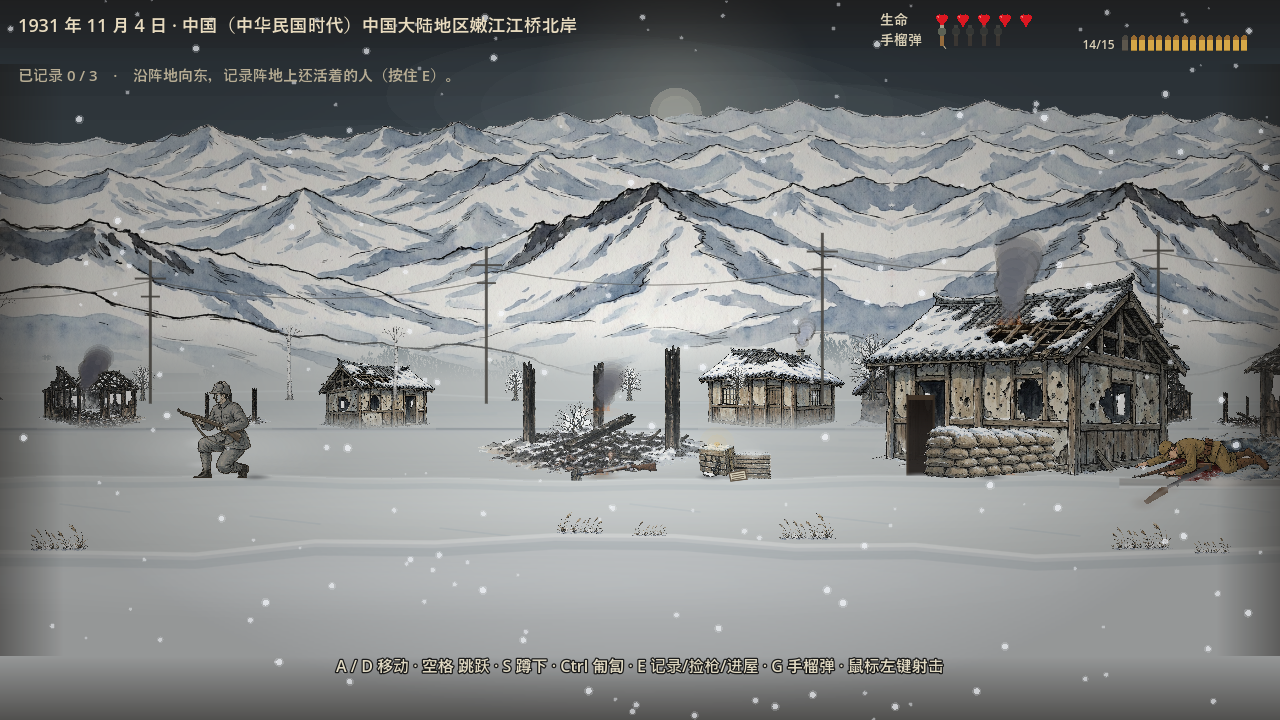
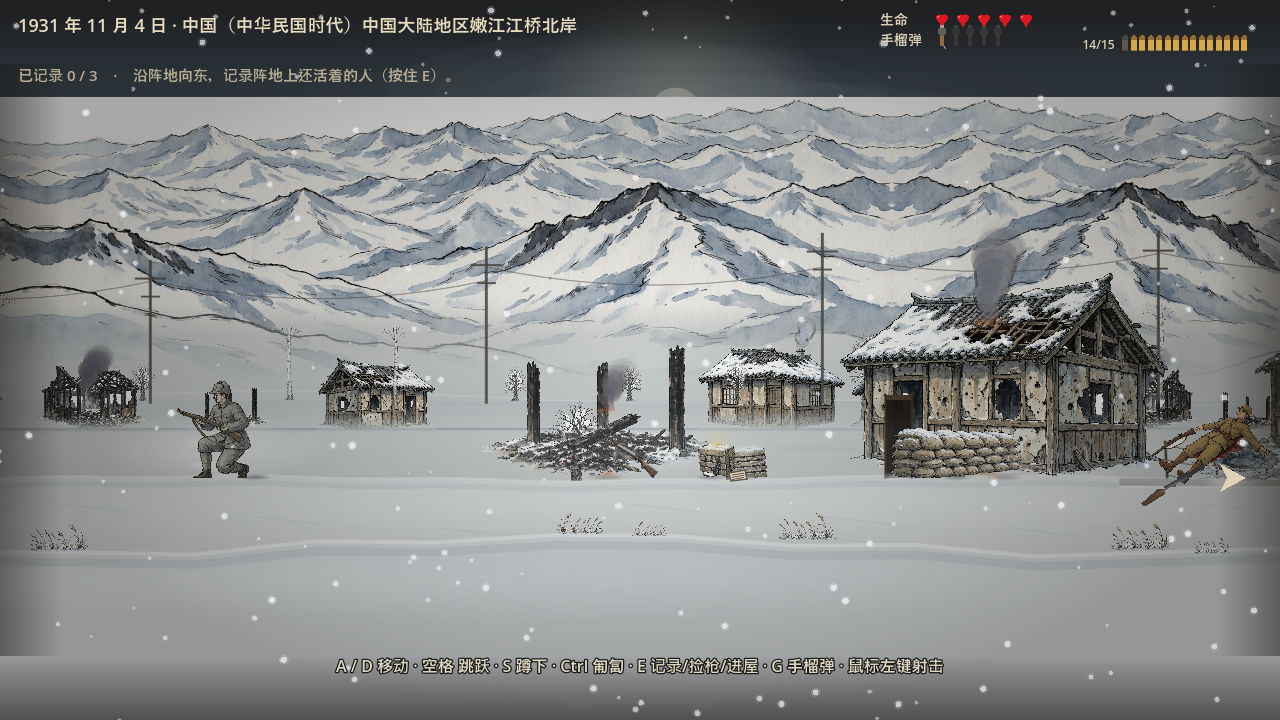
v3.8 spatial logic + horizon white-line root fix: pull near houses in front of rail (ZIndex -3->-1), move corpses out of house footprints (2090->2290 / 3000->3650), add DrawRailBlastDamage warped rail ends + craters, raise sleeper gap to ~30%, pixel-darken entire mountain foot + widen code fade band

diff --git a/scripts/JiangqiaoLevel.cs b/scripts/JiangqiaoLevel.cs
@@ -236,9 +236,11 @@ public partial class JiangqiaoLevel : Node2D
         AddHouse("f3", 3910f + Jit(35), "house_burned_near", 265f, false, 12f);
 
         // near row: enterable loot spots, the intact one teaches players
-        // "the house that still looks whole got the goods" lah
+        // "the house that still looks whole got the goods" lah.
+        // h3 sits fixed (no jitter) so the 2197-2380 gap stays open for the
+        // crater + fallen soldier vignette next to it.
         AddHouse("h1", 845f + Jit(24), "house_ruined_near", 330f, true, 0f);
-        AddHouse("h3", 1885f + Jit(30), "house_intact_near", 312f, true, 0f);
+        AddHouse("h3", 1885f, "house_intact_near", 312f, true, 0f);
         AddHouse("h4", 3180f + Jit(45), "house_posts", 320f, false, 0f);
         AddHouse("h2", 2760f, "house_burned_near", 360f, true, 0f);
     }
@@ -545,7 +547,8 @@ public partial class JiangqiaoLevel : Node2D
         AddChild(_game);
 
         // smoke and fire over the near houses: above the houses, below the fighters
-        _smokeWorld = new SmokeFx { ZIndex = -2 };
+        // v3.8: houses moved up to -1, smoke must ride above them again
+        _smokeWorld = new SmokeFx { ZIndex = 1 };
         _game.AddChild(_smokeWorld);
         if (DebugNoSmoke) _smokeWorld.Visible = false;
 
@@ -590,17 +593,22 @@ public partial class JiangqiaoLevel : Node2D
         _game.AddChild(new CorpseActor(CorpseActor.Faction.IJA,
             new Vector2(1270, GroundY - 2), false, 0.08f));
 
-        // 2. 另一个弹坑（日军，朝向相反）
+        // 2. 弹坑旁（日军，朝向相反）
+        // v3.8: was 2090 — right inside the intact house h3 (1885-2197), body
+        // clipped into the wall. Now draped over the crater rim at 2290, on
+        // open snow between the house and the track.
         _game.AddChild(new CorpseActor(CorpseActor.Faction.IJA,
-            new Vector2(2090, GroundY - 2), true, -0.12f));
+            new Vector2(2290, GroundY - 2), true, 0.06f));
 
         // 3. 战壕边（东北军，头倒在战壕方向）
         _game.AddChild(new CorpseActor(CorpseActor.Faction.NortheastArmy,
             new Vector2(1550, GroundY - 2), false, 0.22f));
 
         // 4. 碉堡前（日军，身体挡在碉堡入口前）
+        // v3.8: was 3000, inside burned house h2; bunker also moved out of
+        // that footprint to 3600, corpse follows and falls toward its door
         _game.AddChild(new CorpseActor(CorpseActor.Faction.IJA,
-            new Vector2(3000, GroundY - 2), true, -0.18f));
+            new Vector2(3650, GroundY - 2), false, -0.10f));
 
         // 5. 桥头铁路旁（东北军，头朝冰面倒）
         _game.AddChild(new CorpseActor(CorpseActor.Faction.NortheastArmy,
@@ -1677,8 +1685,12 @@ public partial class JiangqiaoLevel : Node2D
             // horizon. Now the haze uses the snow colour itself and stops
             // where the solid snow takes over, so no band can ever end up
             // brighter than the field it melts into.
-            var haze = VGradient(new Color(0.775f, 0.795f, 0.795f, 0f), new Color(0.775f, 0.795f, 0.795f, 0.55f));
-            DrawTextureRect(haze, Full(-1400, 505, 57), false);
+            // v3.8: the texture's snow-covered foot (rows ~440-530, mean 215-237)
+            // was STILL brighter than the plain (198) and popped as a thick
+            // white band in daylight. Texture is darkened in place now; this
+            // haze stays weak and long so it only softens, never bands.
+            var haze = VGradient(new Color(0.775f, 0.795f, 0.795f, 0f), new Color(0.775f, 0.795f, 0.795f, 0.42f));
+            DrawTextureRect(haze, Full(-1400, 482, 80), false);
         }
 
         private List<Vector2> Ridge(float baseY, float amp, Color color, float seed, float f1, float f2)
@@ -1785,6 +1797,8 @@ public partial class JiangqiaoLevel : Node2D
             // showed through the 74-86% fade as a thin bright line. Solid snow
             // now starts at 560 and the fade runs 500-560, so the strip is
             // buried under full-strength snow no matter the tint.
+            // v3.8: fade widened to 468-560 so the mountain foot blends over
+            // 90px instead of 60 — no leftover bright ledge above the plain.
             var fade = VGradient(new Color(snow, 0f), new Color(snow, 1f));
             DrawRect(Full(-1400, 560, 258), snow);
 
@@ -1817,7 +1831,7 @@ public partial class JiangqiaoLevel : Node2D
             // came out as a thin smear. Distance haze belongs behind the
             // village anyway — the fog is out on the plain, the houses stand
             // in front of it.
-            DrawTextureRect(fade, Full(-1400, 500, 60), false);
+            DrawTextureRect(fade, Full(-1400, 468, 92), false);
 
             // The distant village: war-torn farmhouses on the open snow.
             //
@@ -2352,11 +2366,14 @@ public partial class JiangqiaoLevel : Node2D
             // 弹坑位置 ±20、半径 ±6。
             // anchors picked so the rim never kisses a sandbag wall, bunker or
             // ammo crate - a shell hole right against the cover reads wrong.
-            // old 4060 slot was boxed in by the 4160 wall, bunker 4050 and
-            // crate 3960, dropped it instead of squeezing another one in.
+            // v3.8: dropped 2080/2890/3260 — all three sat inside near-house
+            // footprints (h3/h2/h4) and would vanish behind them now that the
+            // houses draw in front of the ground art. 2290 is the new hole in
+            // the open gap between h3 and the track; 2540/3780 stay to break
+            // the rails where they are visible.
             var craterListX = new List<float>();
             var craterListR = new List<float>();
-            foreach (float x in new[] { 1260f, 1640f, 2080f, 2540f, 2890f, 3260f, 3780f })
+            foreach (float x in new[] { 1260f, 1640f, 2290f, 2540f, 3780f })
             {
                 craterListX.Add(x + rng.RandfRange(-22f, 22f));
                 craterListR.Add(26f + rng.RandfRange(-6f, 15f));
@@ -2382,7 +2399,8 @@ public partial class JiangqiaoLevel : Node2D
             var bxList = new List<float>();
             var bwList = new List<float>();
             var fhList = new List<float>();
-            foreach (float bx in new[] { 1550f, 3050f, 4050f })
+            // v3.8: bunker 3050 was buried behind burned house h2, moved to 3600
+            foreach (float bx in new[] { 1550f, 3600f, 4050f })
             {
                 bxList.Add(bx + rng.RandfRange(-18f, 18f));
                 bwList.Add(56f + rng.RandfRange(-4f, 8f));
@@ -2392,10 +2410,10 @@ public partial class JiangqiaoLevel : Node2D
             _bunkerBW = bwList.ToArray();
             _bunkerFH = fhList.ToArray();
 
-            // 铁路：随机挑 8~12 根枕木去掉（每 60 根里去掉 1 根 = 稀疏破损）
+            // 铁路：随机挑约 30 根枕木去掉（画得到的就是 84 根，三成缺失 = 战时打烂的样子）
             var railSkip = new HashSet<int>();
-            int railCount = (int)(5200f / 34f);  // ≈ 152 根
-            for (int k = 0; k < 22; k++) railSkip.Add((int)rng.RandfRange(0, railCount));
+            int railCount = (int)((WorldW - 2400f) / 34f) + 2;
+            for (int k = 0; k < 30; k++) railSkip.Add((int)rng.RandfRange(0, railCount));
             _railSkipIdx = railSkip.ToArray();
 
             // 桥桁架：随机去掉 2~4 根斜腹杆
@@ -2439,6 +2457,7 @@ public partial class JiangqiaoLevel : Node2D
             DrawRiverIce();
             DrawRailway();
             DrawCraters();
+            DrawRailBlastDamage();
             DrawBridge();
             DrawTrenchLines();
         }
@@ -2509,6 +2528,61 @@ public partial class JiangqiaoLevel : Node2D
                 DrawTextureRect(SoftSnow.Blob(new Color(0.78f, 0.83f, 0.86f), 0.6f),
                     new Rect2(-20f, -20f, 40f, 40f), false);
                 DrawSetTransform(Vector2.Zero, 0, Vector2.One);
+            }
+        }
+
+        /// <summary>
+        /// v3.8 dressing at every rail break: scorch on the ballast, twisted
+        /// rail stubs curling out of both cut ends, splinters and debris.
+        /// Without this the segmented rails just showed a naked gap in the
+        /// line - "why would the track stop mid-air for no reason".
+        /// Deterministic per crater index, stable between frames.
+        /// Drawn after the crater textures so the twisted steel stays visible.
+        /// </summary>
+        private void DrawRailBlastDamage()
+        {
+            float railY = GroundY - 1f;
+            for (int i = 0; i < _craterX.Length; i++)
+            {
+                float cx = _craterX[i];
+                if (cx <= 2420f || cx >= WorldW - 24f) continue;
+                float r = _craterR[i] * 0.82f;
+
+                var rng = new RandomNumberGenerator();
+                rng.Seed = (ulong)(i * 7919 + 13);
+
+                // scorched bed under the gap
+                DrawSetTransform(new Vector2(cx, railY + 9f), 0, new Vector2(r / 20f, 0.42f));
+                DrawTextureRect(SoftSnow.Blob(new Color(0.19f, 0.175f, 0.16f), 0.5f),
+                    new Rect2(-20f, -20f, 40f, 40f), false);
+                DrawSetTransform(Vector2.Zero, 0, Vector2.One);
+
+                // twisted stubs curling up and out from both cut ends, one pair per rail line
+                foreach (float ry in new[] { railY, railY + 12 })
+                foreach (float sgn in new[] { -1f, 1f })
+                {
+                    float ex = cx + sgn * r;
+                    for (int s = 0; s < 2; s++)
+                    {
+                        float len = rng.RandfRange(8f, 15f);
+                        float tilt = 0.35f + 0.45f * s + rng.RandfRange(-0.12f, 0.12f);
+                        float dx = sgn * len * Mathf.Cos(tilt);
+                        float dy = -len * Mathf.Sin(tilt);
+                        DrawLine(new Vector2(ex, ry), new Vector2(ex + dx, ry + dy),
+                            InkStyle.InkColor, InkStyle.ThinStroke, true);
+                        // bright torn steel at the tip
+                        DrawCircle(new Vector2(ex + dx, ry + dy), 1.3f, new Color(0.85f, 0.86f, 0.84f));
+                    }
+                }
+
+                // splinters and kicked-up ballast around the hole
+                for (int s = 0; s < 6; s++)
+                {
+                    float px = cx + rng.RandfRange(-r, r) * 1.15f;
+                    float py = railY + rng.RandfRange(2f, 16f);
+                    DrawCircle(new Vector2(px, py), rng.RandfRange(0.8f, 1.7f),
+                        new Color(0.27f, 0.25f, 0.23f, 0.8f));
+                }
             }
         }
 

diff --git a/scripts/EnterableHouse.cs b/scripts/EnterableHouse.cs
@@ -35,8 +35,11 @@ public partial class EnterableHouse : Node2D
         _enterable = enterable;
         _lift = lift;
         Position = pos;
-        // lifted houses sit a step further back in the depth row
-        ZIndex = lift > 0f ? -4 : -3;
+        // lifted houses sit a step further back in the depth row.
+        // v3.8: near row now draws IN FRONT of the ground art (the railway
+        // band is part of it), so the track passes behind the village houses
+        // instead of slicing through their front walls.
+        ZIndex = lift > 0f ? -2 : -1;
     }
 
     private static Texture2D LoadTex(string name)

diff --git a/README.md b/README.md
@@ -164,6 +164,13 @@
 - **掉落经济收紧**：地上捡枪与屋内弹药通常 1–5 发随机，8 发以上属于少见好运；手榴弹通常 1 颗、偶尔 2 颗，约两成受潮哑火（找到了也扔不得）；上锁弹药箱改为 2–6 发 + 半数概率带一颗手榴弹。
 - **屋内搜索内容**：常备几发子弹、家书或遗书，纱布/医药包低概率出现。
 
+### v3.8 空间逻辑与背景白线彻底根修（房屋层级 / 尸体摆放 / 铁轨炸毁 / 山脚白线）
+
+- **房屋层级前移盖住铁轨**：近排房屋 ZIndex 从 -3 提到 -1（与地面艺术层同级、画在其后），铁轨不再"穿墙"画在房子前面；原本陷在房 footprint 里的尸体 / 碉堡 / 弹坑一并移出房屋范围，空间逻辑顺了。
+- **尸体不再贴墙**：2 号尸体从卡在完整房 h3 墙内的 2090 移到 2290 弹坑边开阔雪地（姿态 0.06rad 自然倒卧）；4 号尸体从烧毁房 h2 内的 3000 移到 3650（与碉堡一起移出该 footprint），倒卧姿势不再"钉在墙上违反人体工学"。
+- **铁轨真的被炸烂**：断轨处新增 `DrawRailBlastDamage()`——钢轨在弹坑两端上翘扭曲、亮钢尖外露，四周碎石弹片 + 焦痕软斑，不再像"无故缺一段"那么干净；枕木缺失率从约两成提到三成（`count = (WorldW-2400)/34 + 2`），整条线读起来是战时打烂的铁道。
+- **山脚白线彻底根修**：v3.6 只压了贴图最底 18 行，但实测下部 1/3（rows 440-530 雪盖山脚）平均亮度 215-237 比雪原实色 198 还亮，白天也炸成白带。这次用像素级压暗整段山脚（ramp 1.0-0.13t，亮部再乘 0.25），并把代码渐变带加宽到 468-560（92px）、远山雾 alpha 0.55→0.42——白天实测行亮度 98-560 平缓过渡、最大跳变 <10，白带消失。
+
 ### v3.6 夜色下的两条"穿帮线"根修（地平线白线 / 腰部接缝）
 
 - **雪山脚大白线根修**：全景山体贴图底部带着一条近纯白的残留条带（行 526-538 平均亮度 232，上方山体仅 72），雪幕渐变只压到 74-86% 没盖死，加上山脚雾比雪色亮——凌晨色调下炸成一条贯穿全屏的白线。现在实色雪原上移到山脚之前、渐变带 500-560 提前合拢、山脚雾改用雪色本身，任何时段都不会再亮出一条线（实测最大亮度跳变 17.8→3.7）。
@@ -190,6 +197,7 @@
 
 | 版本 | 要点 |
 |------|------|
+| v3.8 | 空间逻辑+白线根修：近排房屋层级前移盖住铁轨（ZIndex -3→-1），尸体移出房 footprint 不再贴墙（2090→2290 / 3000→3650），断轨加 DrawRailBlastDamage 钢轨上翘扭曲+焦痕、枕木缺失提到三成，山脚白线像素级压暗整段山脚+渐变带加宽 |
 | v3.7 | HUD 图标化：生命改鲜红心形（最多 5）、手榴弹改木柄图标（最多 5）、弹药封顶 15 发；纱布+1 心（稀有）/医药包全回复（极稀有）、子弹通常 1–5 发、手榴弹约两成哑火 |
 | v3.6 | 夜色穿帮线根修：山体贴图白底条带+山脚雾过亮炸出的地平线白线（雪幕提前合拢+雾改雪色），躯干旋转绕贴图角导致的腰部接缝（绕髋补偿推广到走路/瞄准/后坐全部姿态） |
 | v3.5 | 比例与摆位修正：房屋 1.5–2 人高基准（最小木架房 1.17→1.6）、门洞按贴图真门定位、弹坑与沙包/碉堡/弹药箱留间距、换屏黑幕防卡死加固 |
@@ -275,27 +283,27 @@
 
 **雪原全景 · 同款画风背景贴图合成四层视差（雪山 / 村落 / 树 / 草，layer by layer 厚度感）**
 
-![雪原全景](docs/screenshots/v46_jq_scene.png?v=3.7)
+![雪原全景](docs/screenshots/v46_jq_scene.png?v=3.8)
 
 **立姿据枪 · 枪托抵肩贴腮瞄准 + 枪口火光对齐枪管尖**
 
-![立姿据枪](docs/screenshots/v47_jq_fire.png?v=3.7)
+![立姿据枪](docs/screenshots/v47_jq_fire.png?v=3.8)
 
 **跪蹲持枪 · 军事标准跪姿（S 键）**
 
-![跪蹲持枪](docs/screenshots/v48_jq_crouch.png?v=3.7)
+![跪蹲持枪](docs/screenshots/v48_jq_crouch.png?v=3.8)
 
 **低姿匍匐 · 军事条令低姿匍匐前进（Ctrl/C 键）**
 
-![低姿匍匐](docs/screenshots/v49_jq_prone.png?v=3.7)
+![低姿匍匐](docs/screenshots/v49_jq_prone.png?v=3.8)
 
 **完好房屋 · 烟囱动态炊烟（贴图静态烟已抹除，只剩程序化动态烟）**
 
-![烟囱动态炊烟](docs/screenshots/v51_jq_chimney.png?v=3.7)
+![烟囱动态炊烟](docs/screenshots/v51_jq_chimney.png?v=3.8)
 
 **焚毁村落 · 焦柱断壁 + 动态黑烟 + 残火（程序化演出，非贴图）**
 
-![焚毁村落](docs/screenshots/v50_jq_burnt.png?v=3.7)
+![焚毁村落](docs/screenshots/v50_jq_burnt.png?v=3.8)
 
 ## 如何运行（小白版，3 步）
 
